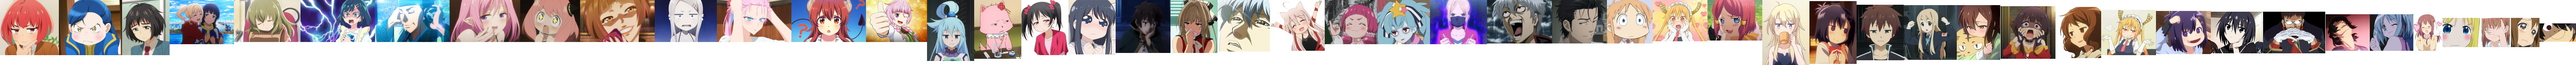
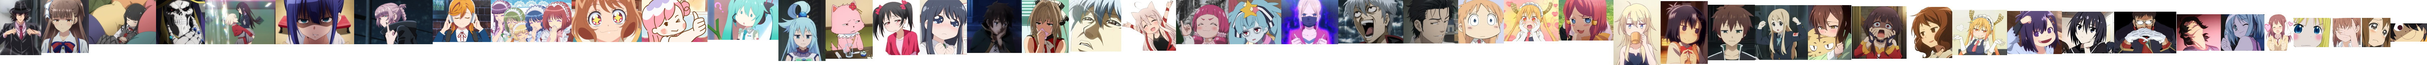
adds summer faces

diff --git a/src/_commentfaces-static.scss b/src/_commentfaces-static.scss
@@ -323,7 +323,7 @@ $static-comment-faces: (
 				"harukathink": ("height": 160, "width": 112, "position": 8139),
 				"kannathumbs": ("height": 162, "width": 150, "position": 8289),
 				"konosubawot4": ("height": 166, "width": 129, "position": 8418))),
-		33: ("sprite-sheet": "cf-static-046", "total-width": 7047, "items": ("araragi-1": ("height": 50, "width": 100, "position": 100),
+		33: ("sprite-sheet": "cf-static-046", "total-width": 6641, "items": ("araragi-1": ("height": 50, "width": 100, "position": 100),
 				"yui-crying": ("height": 80, "width": 78, "position": 178),
 				"facepalm": ("height": 80, "width": 80, "position": 258),
 				"gununu": ("height": 80, "width": 107, "position": 365),
@@ -358,19 +358,19 @@ $static-comment-faces: (
 				"sideeyes": ("height": 161, "width": 129, "position": 4382),
 				"konosubawot": ("height": 167, "width": 129, "position": 4511))),
 
-		34: ("sprite-sheet": "cf-static-046", "total-width": 7047, "items": (
-				"seasonalapproval": ("height": 115, "width": 167, "position": 4678),
-/*				"seasonalconfused": ("height": 115, "width": 204, "position": 4882),*/
-				"seasonalcool": ("height": 115, "width": 204, "position": 5086),
-				"seasonaldisapproval": ("height": 115, "width": 170, "position": 5256),
-				"seasonaldisdain": ("height": 115, "width": 204, "position": 5460),
-				"seasonalhype": ("height": 115, "width": 164, "position": 5624),
-				"seasonallaugh": ("height": 115, "width": 193, "position": 5817),
-				"seasonallisten": ("height": 115, "width": 204, "position": 6021),
-/*				"seasonalshock": ("height": 115, "width": 204, "position": 6225),*/
-				"seasonaltired": ("height": 115, "width": 182, "position": 6407),
-				"seasonallove": ("height": 121, "width": 176, "position": 6583),
-				"seasonaldepression": ("height": 151, "width": 130, "position": 6713),
-/*				"seasonalpout": ("height": 151, "width": 173, "position": 6886),*/
-				"seasonalthink": ("height": 151, "width": 161, "position": 7047)))
+		34: ("sprite-sheet": "cf-static-046", "total-width": 6641, "items": (
+				"seasonalconfused": ("height": 109, "width": 194, "position": 4620),
+				"seasonalapproval": ("height": 115, "width": 180, "position": 4735),
+				"seasonalhype": ("height": 115, "width": 192, "position": 4850),
+				"seasonallaugh": ("height": 115, "width": 221, "position": 4965),
+				"seasonallisten": ("height": 115, "width": 159, "position": 5080),
+				"seasonaldisapproval": ("height": 121, "width": 215, "position": 5201),
+				"seasonaldisdain": ("height": 121, "width": 215, "position": 5322),
+				"seasonallove": ("height": 121, "width": 193, "position": 5443),
+				"seasonalthink": ("height": 121, "width": 134, "position": 5564),
+				"seasonaltired": ("height": 121, "width": 184, "position": 5685),
+				"seasonaldepression": ("height": 145, "width": 130, "position": 5830),
+				"seasonalcool": ("height": 151, "width": 113, "position": 5981)))
+/*				"seasonalshock": ("height": yyy, "width": xxx, "position": zzz),*/
+/*				"seasonalpout": ("height": yyy, "width": xxx, "position": zzz),*/
 );

diff --git a/src/_commentfaces-animated.scss b/src/_commentfaces-animated.scss
@@ -65,7 +65,7 @@ $animated-comment-faces: (
 		"cf-animated-020": ("items": ("volibearQ": ("height": 105, "width": 191, "from-position": -730, "to-position": -3565, "frames": 28, "duration": 1.72, "loop": false),
 				"micdrop": ("height": 123, "width": 176, "from-position": 7030, "to-position": 2725, "frames": 36, "duration": 1.44, "loop": false),
 				"kaguyashaking": ("height": 127, "width": 176, "from-position": 2471, "to-position": 2725, "frames": 2, "duration": 0.14, "loop": true),
-				"seasonalpout": ("height": 131, "width": 130, "from-position": 2201, "to-position": 2463, "frames": 2, "duration": 0.5, "loop": true),
+				"seasonalpout": ("height": 151, "width": 150, "from-position": 2204, "to-position": 2506, "frames": 2, "duration": 0.5, "loop": true),
 				"seasonalshock": ("height": 107, "width": 191, "from-position": 1951, "to-position": 2165, "frames": 2, "duration": 0.14, "loop": true),
 				"hahahawhat": ("height": 101, "width": 190, "from-position": -465, "to-position": 949, "frames": 15, "duration": 1.5, "loop": false))),
 		"cf-animated-021": ("items": ("fuukothumbsup": ("height": 152, "width": 136, "from-position": -829, "to-position": -3565, "frames": 19, "duration": 1.58, "loop": false),
